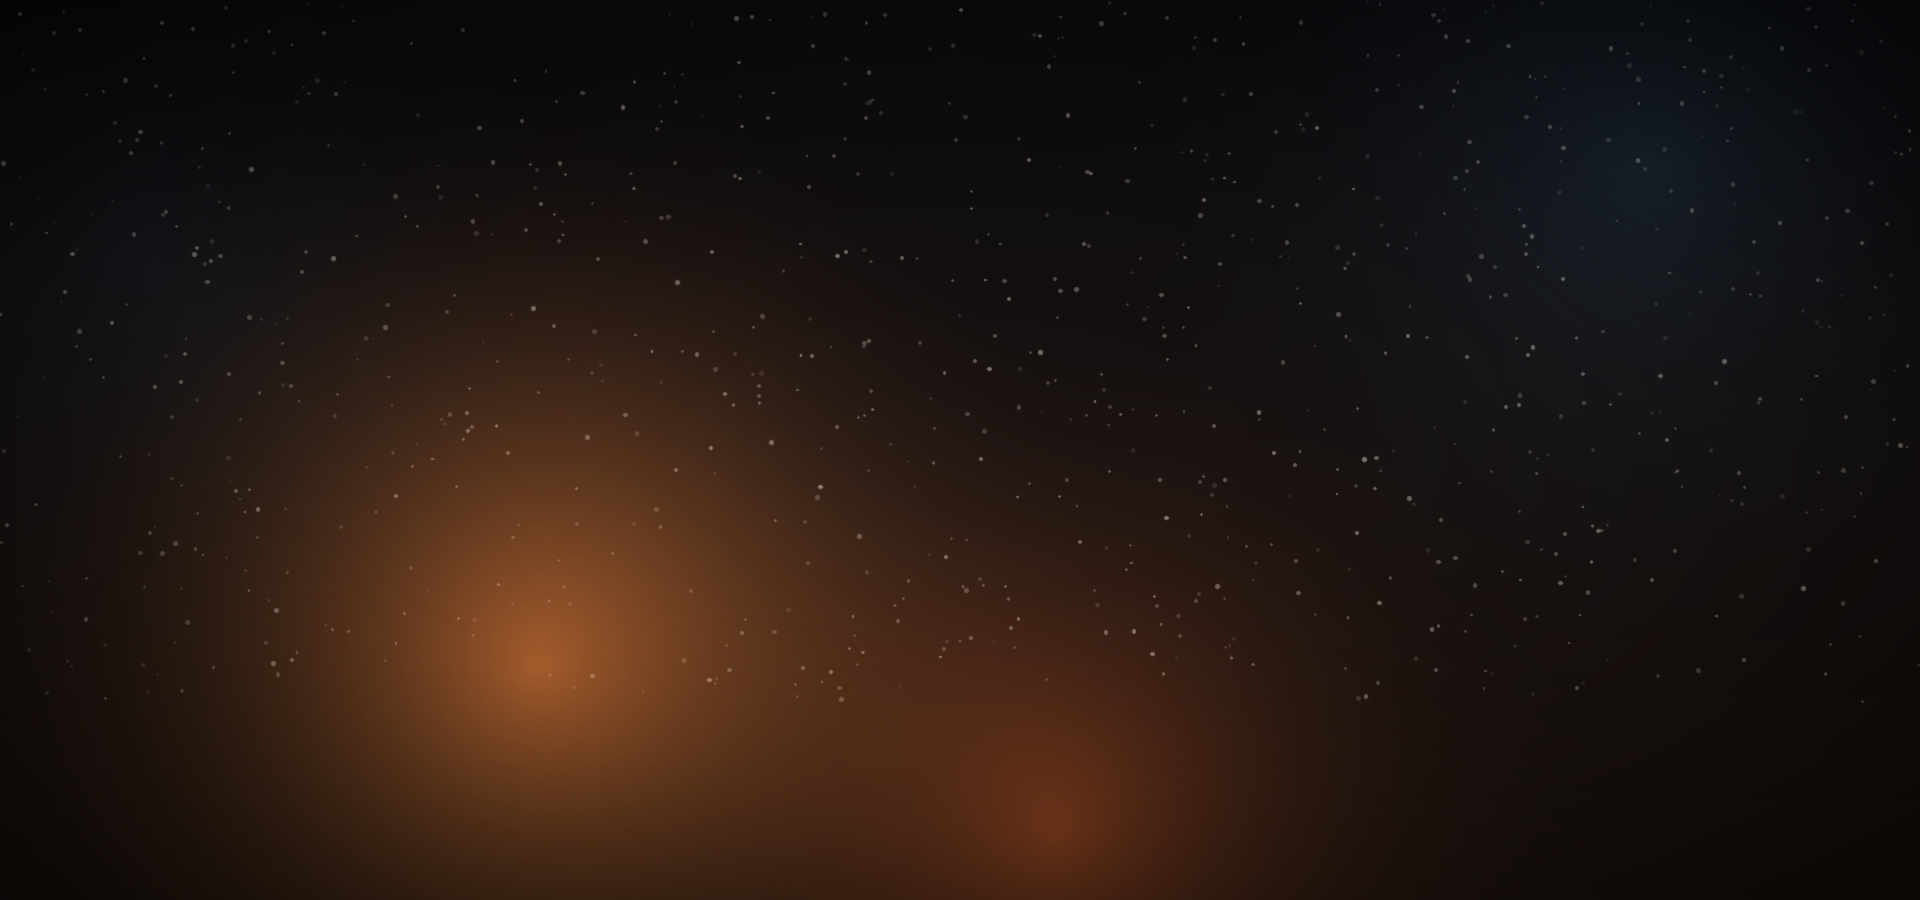
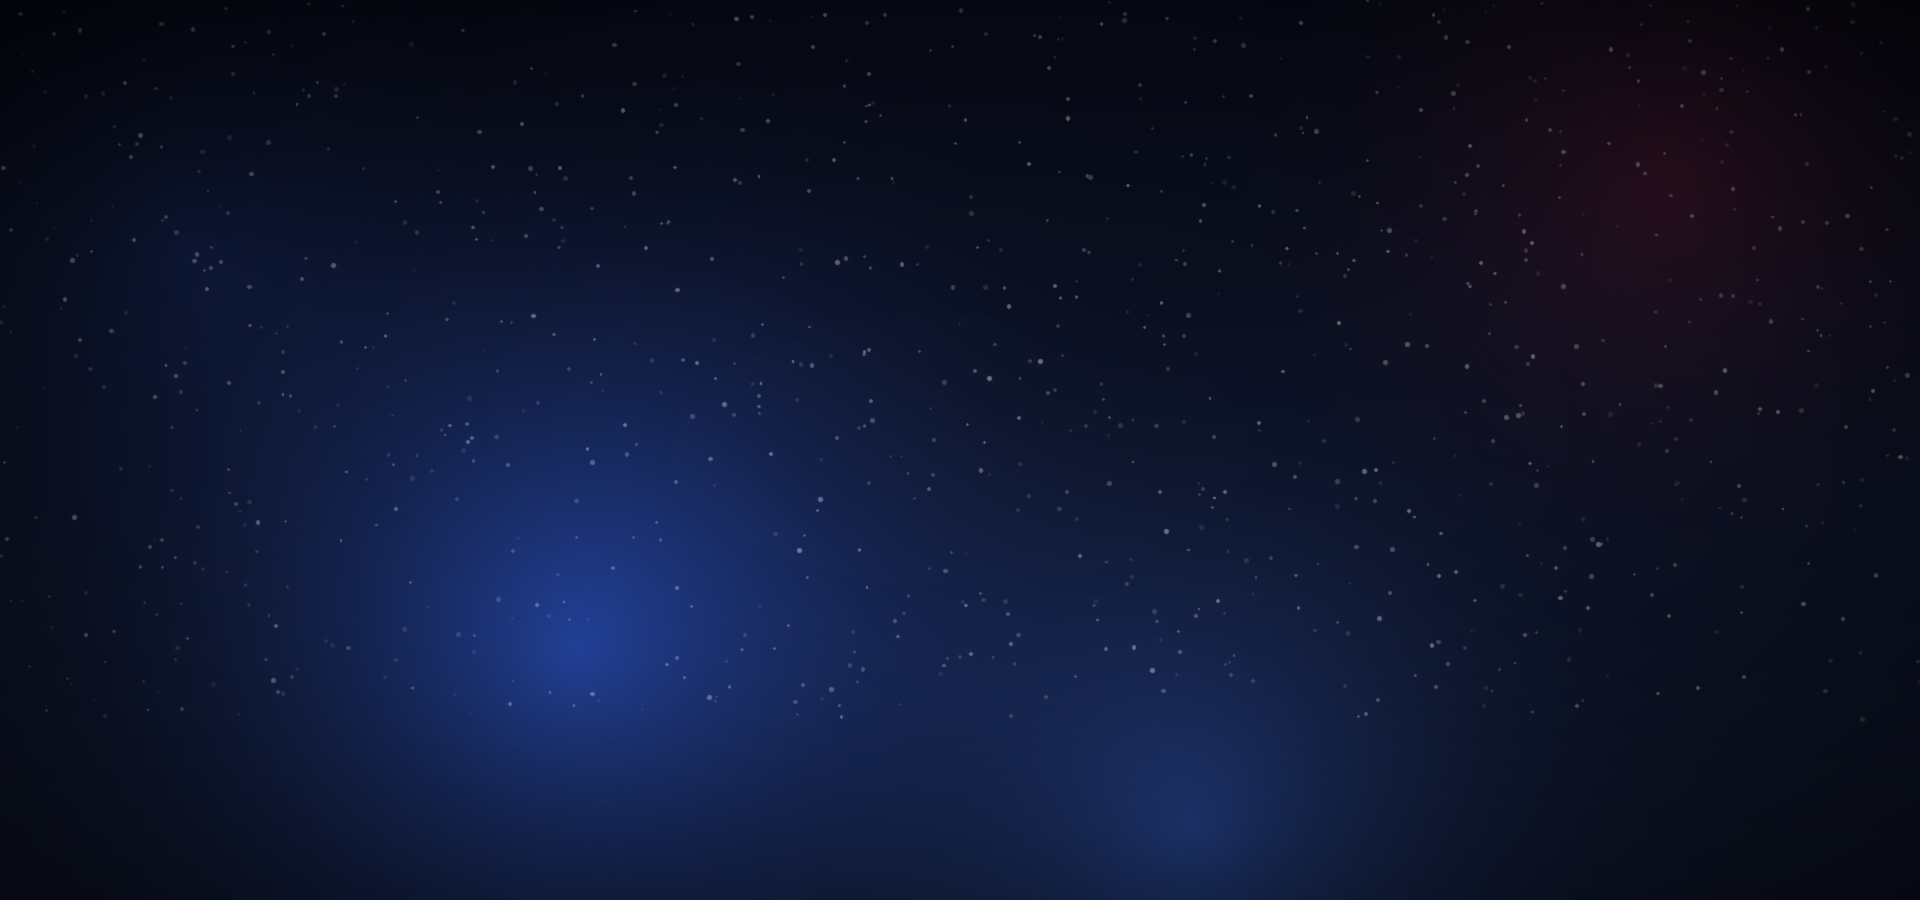
更换头像并据此调整全站配色
- 头像换成新插画，裁成方形以保持侧边栏卡片比例
- 主题色相由暖橙 30 改为 265，取自头像主色的 OKLCH 色相
- 横幅与 favicon 同步换成蓝为主、红色点缀的版本
- 修正首篇文章中对旧配色的描述

diff --git a/src/config.ts b/src/config.ts
@@ -13,7 +13,7 @@ export const siteConfig: SiteConfig = {
 	subtitle: "寒火的个人博客",
 	lang: "zh_CN", // Language code, e.g. 'en', 'zh_CN', 'ja', etc.
 	themeColor: {
-		hue: 30, // Default hue for the theme color, from 0 to 360. e.g. red: 0, teal: 200, cyan: 250, pink: 345
+		hue: 265, // Default hue for the theme color, from 0 to 360. e.g. red: 0, teal: 200, cyan: 250, pink: 345
 		fixed: false, // Hide the theme color picker for visitors
 	},
 	banner: {
@@ -60,7 +60,7 @@ export const navBarConfig: NavBarConfig = {
 };
 
 export const profileConfig: ProfileConfig = {
-	avatar: "assets/images/avatar.png", // Relative to the /src directory. Relative to the /public directory if it starts with '/'
+	avatar: "assets/images/avatar.jpg", // Relative to the /src directory. Relative to the /public directory if it starts with '/'
 	name: "寒火",
 	bio: "在篝火边支了个冷饮摊，随便写点东西。",
 	links: [

diff --git a/src/content/posts/hello-world.md b/src/content/posts/hello-world.md
@@ -13,7 +13,7 @@ draft: false
 
 「篝火边，冷饮摊」——一边是烧得正旺的火，一边是冰镇过的饮料。把一个热的和一个凉的东西摆在一起，本身就有点好笑，所以我拿它当了站名。
 
-顺带一提，这个站的配色也是照着这个名字来的：默认主题色是暖橙色，横幅右下角藏了一点冷蓝色。你可以在右下角的调色盘里改成自己喜欢的颜色。
+顺带一提，这个站的主题色取自头像的那抹蓝，再拿红色点了一下作点缀。你可以在右下角的调色盘里改成自己喜欢的颜色。
 
 ## 这里会写什么
 
